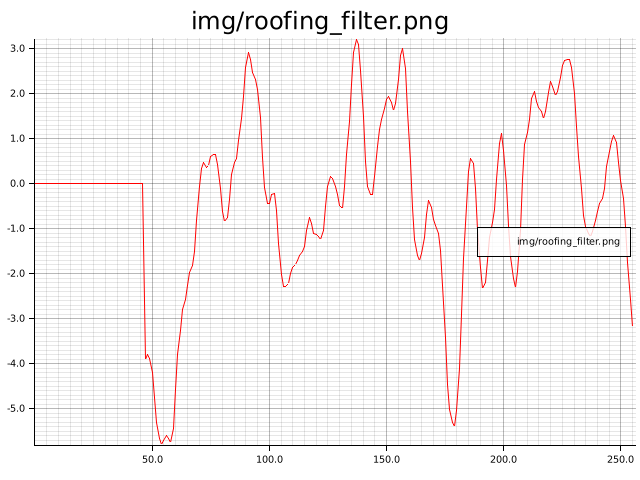
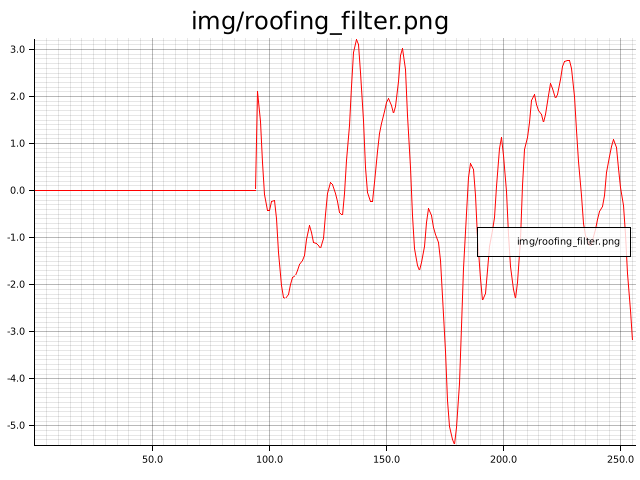
made RoofingFilter output nicer by givin two times the window length of warmup time

Changed region(s): [[0.0, 0.0625, 1.0, 0.9375]]

diff --git a/src/roofing_filter.rs b/src/roofing_filter.rs
@@ -62,13 +62,18 @@ where
         self.val_2 = self.val_1;
         self.val_1 = val;
 
-        self.super_smoother.update(hp);
+        if self.i > self.window_len {
+            // to avoid weird output, only update, once warmup stage is done
+            self.super_smoother.update(hp);
+        }
         self.i += 1;
     }
 
     #[inline(always)]
     fn last(&self) -> f64 {
-        if self.i < self.window_len {
+        // This much warmup was needed in my tests,
+        // otherwise output looks a little weird with a huge dip in early data
+        if self.i < self.window_len * 2 {
             0.0
         } else {
             self.super_smoother.last()
